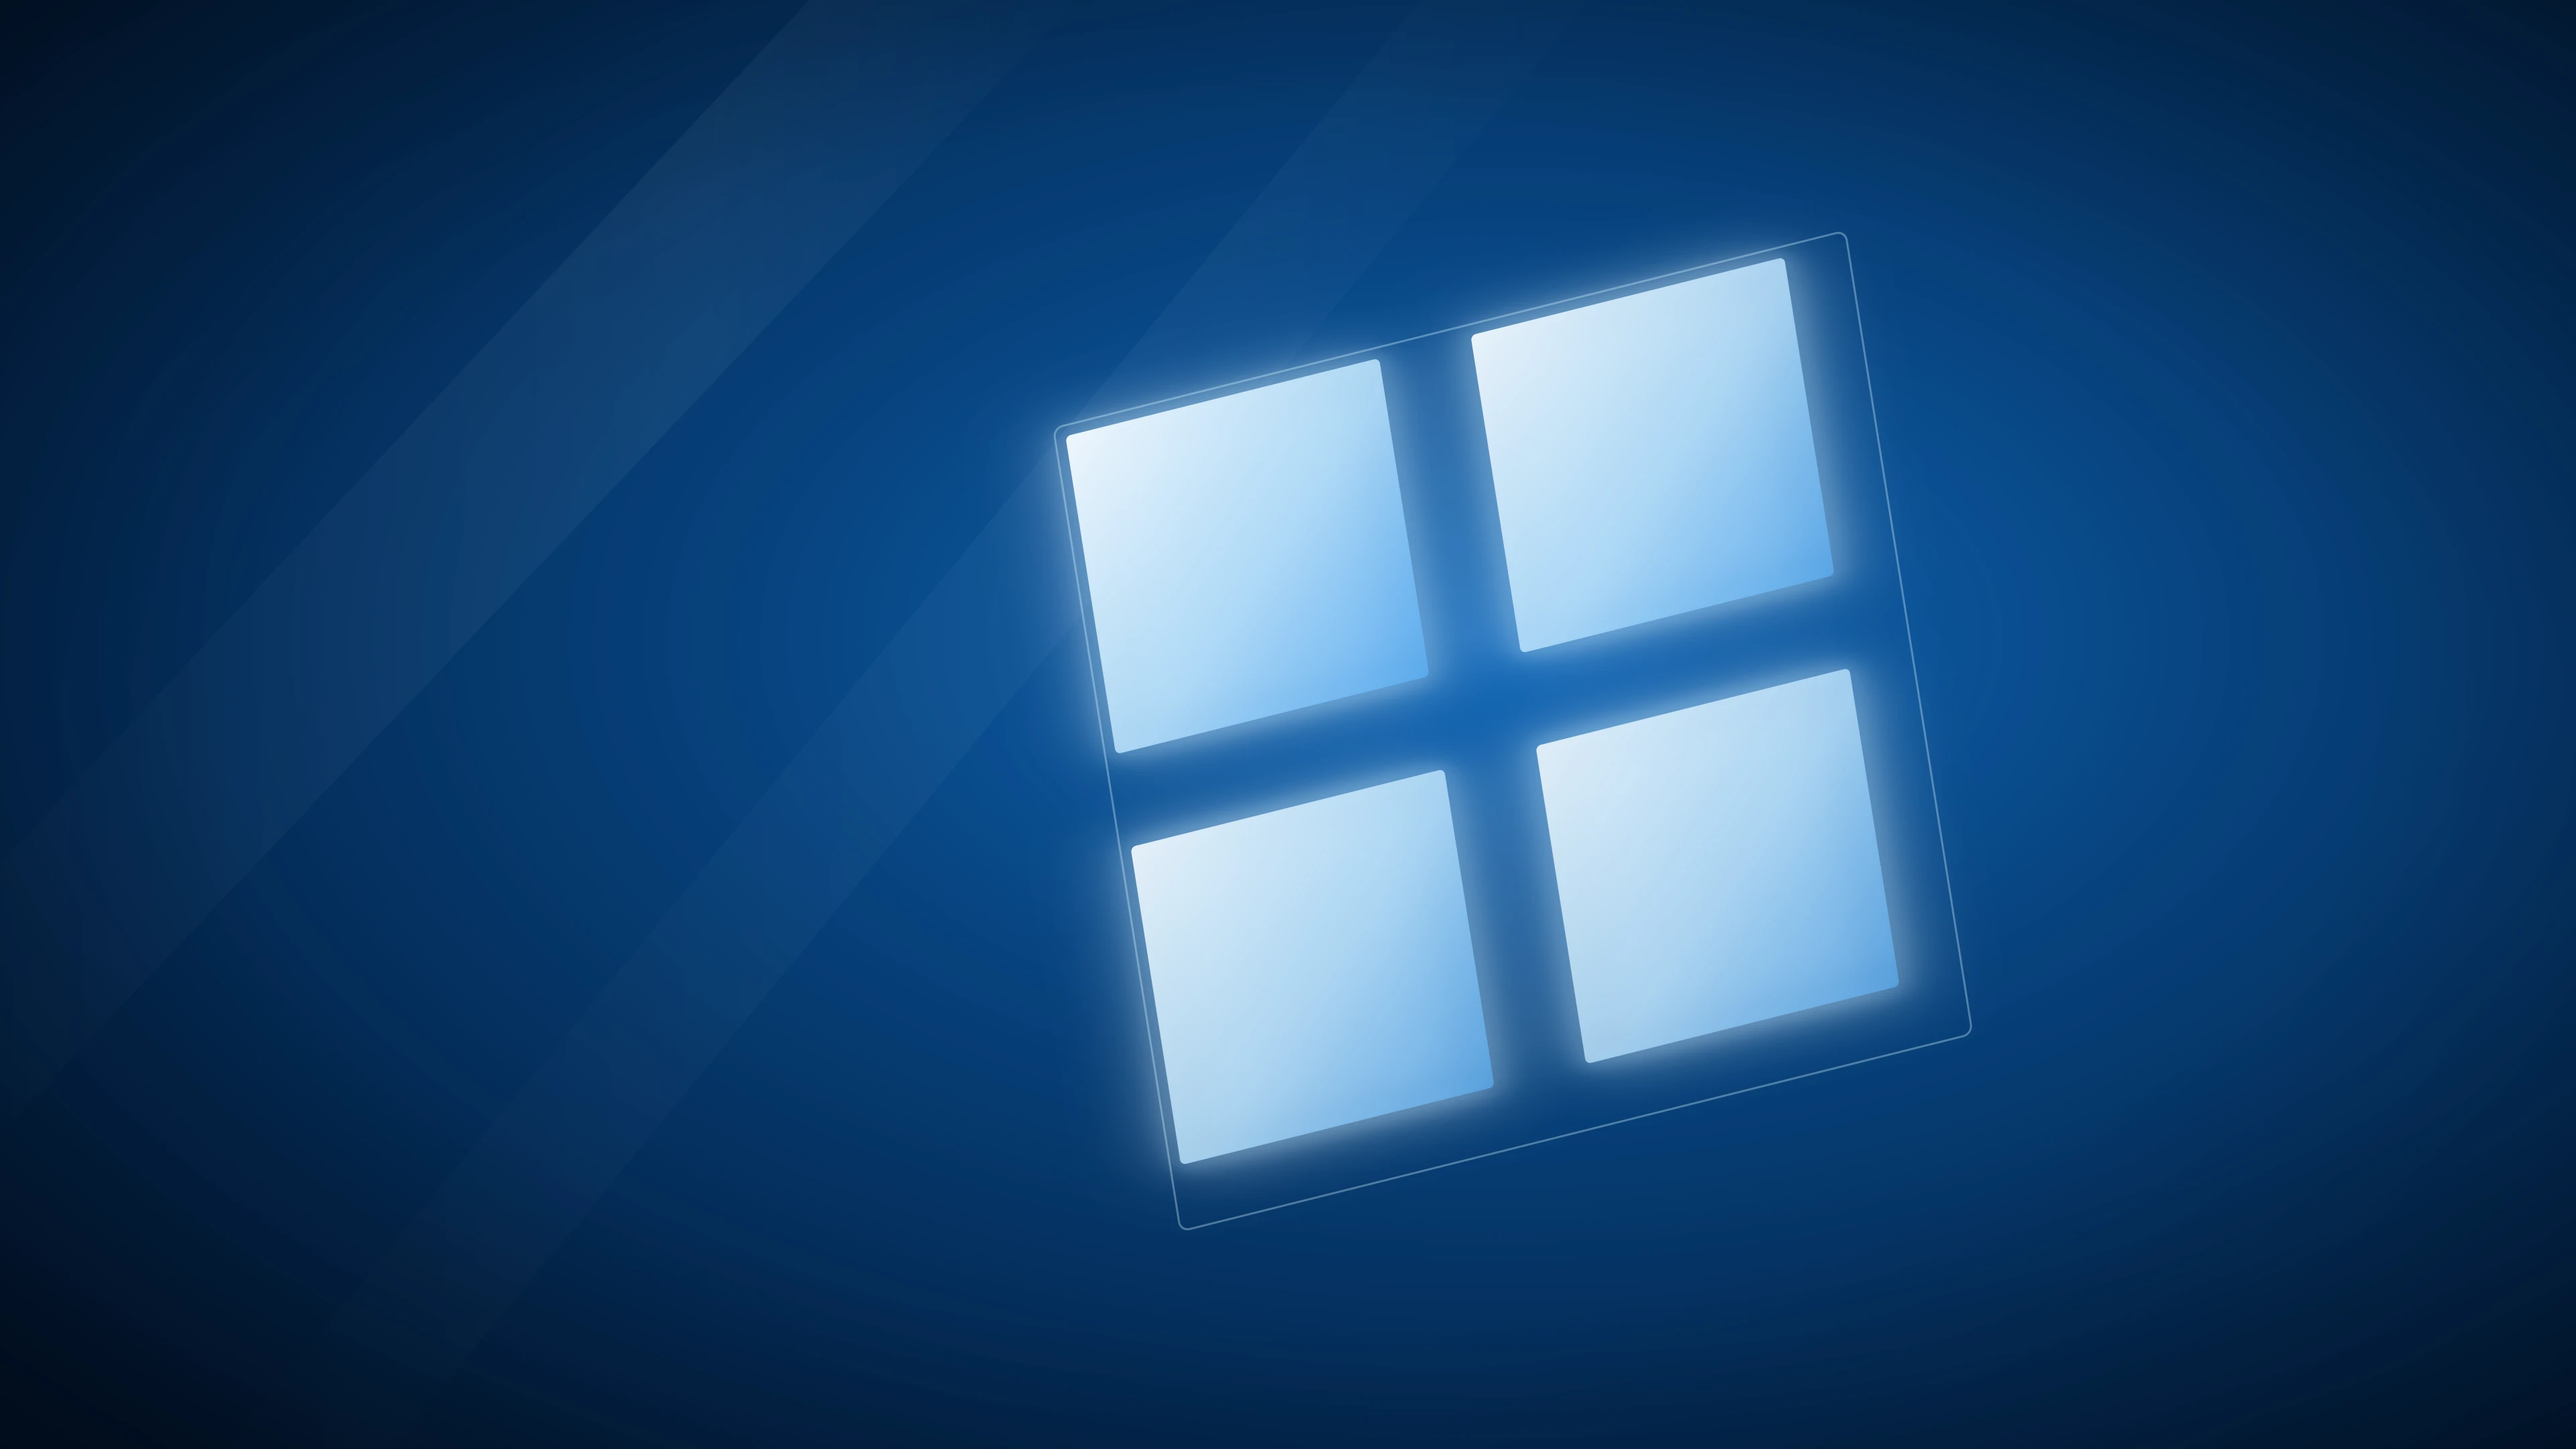
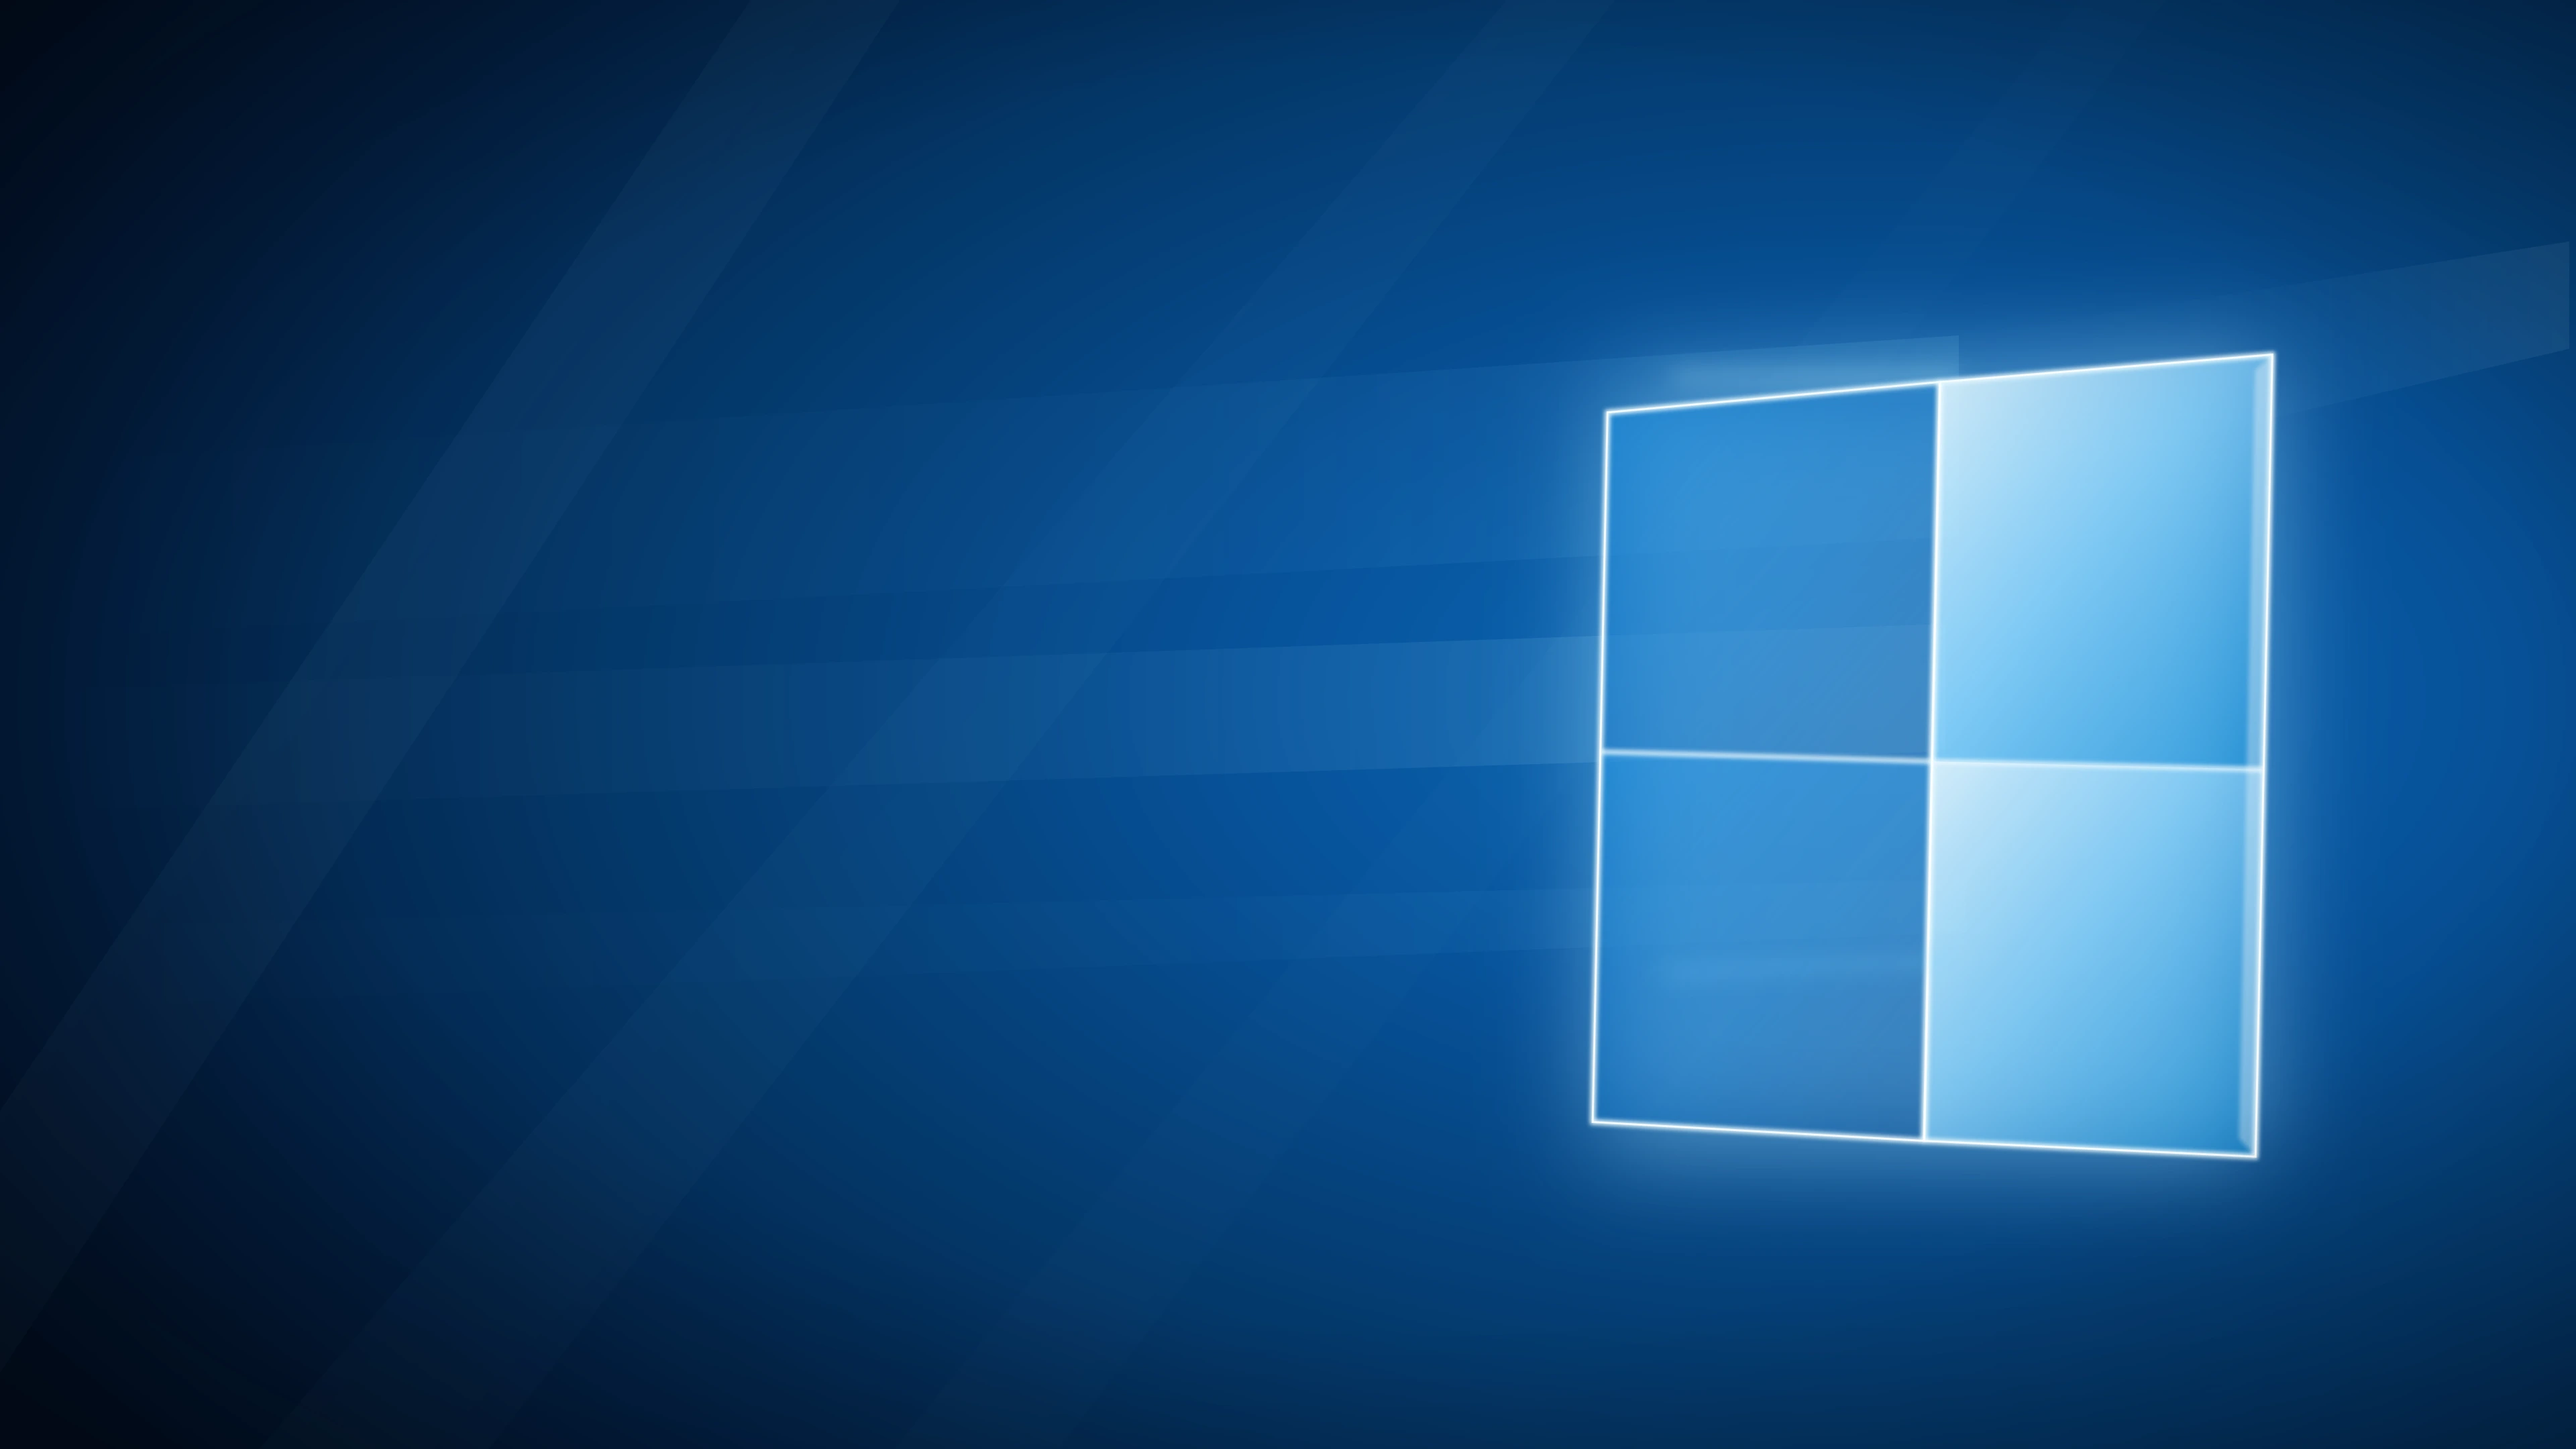
Recreate the Windows 10 Hero wallpaper and audit layout gaps
- Replace the simple centred-pane wallpaper with an original Hero-inspired
  drawing: dark navy field, perspective-tilted right-hand window, cyan pane
  glow and light beams. Source is backgrounds/windows-10-hero.svg, rendered to
  the 4K WebP used by the theme.
- Document the copyright constraint: Microsoft's Hero wallpaper is not bundled
  and may not be redistributed without a licence.
- Add a remaining-layout audit covering Start tiles, Settings size/advanced
  controls, action-center grouping, taskbar previews/overflow, lock screen and
  toast/OSD styling for the next pass.
- Add tests for the wallpaper source, asset and provenance note.

diff --git a/tests/test_theme_tools.py b/tests/test_theme_tools.py
@@ -464,6 +464,9 @@ class ThemeToolsTest(unittest.TestCase):
         self.assertIn("windowcontrols > button > image", css)
         self.assertIn("#e81123", css)
         self.assertIn("Selawik", css)
+        self.assertTrue((WINDOWS / "backgrounds/windows-10-hero.svg").is_file())
+        self.assertTrue((WINDOWS / "backgrounds/1-windows-10-blue.webp").is_file())
+        self.assertIn("Microsoft copyright", (WINDOWS / "backgrounds/README.md").read_text())
         shim = (WINDOWS / "gtk/title-left-shim.c").read_text()
         self.assertIn("hdy_header_bar_pack_start", shim)
         self.assertIn("adw_header_bar_pack_start", shim)

diff --git a/docs/windows-10.md b/docs/windows-10.md
@@ -78,6 +78,7 @@ Live checks: `plugin:winbars:enabled` → true, `bar_height` → 30,
 - Title alignment attempts: `/tmp/opencode/compare-title-alignment.png`
 - Titlebar on a GTK SSD app + close hover: `/tmp/opencode/compare-titlebar-gtk.png`
 - Titlebar default-white reference: `/tmp/opencode/compare-titlebar-default.png`
+- Desktop/Hero wallpaper: `/tmp/opencode/compare-desktop-hero.png`
 
 The taskbar, Start and action-center comparisons use dark Windows mode references with black surfaces, matching Big Nut's defaults. The wallpaper in the full desktop capture is an original drawing, so the taskbar strip comparison is the like-for-like surface comparison. The titlebar comparison uses a Windows 10 About dialog with a default white titlebar; it has one close button because dialogs do not show minimize/maximize. The accent-colored Settings capture documents the reference's custom accent, not Big Nut's palette.
 
@@ -107,6 +108,17 @@ Verified live:
 Evidence `/tmp/opencode/compare-title-left.png`. No `Adwaita-CRITICAL` or
 packing warnings appeared in the app logs. Apps that do not use these header
 bars are unaffected.
+
+## Remaining layout audit
+
+| Surface | Difference from Windows 10 | Next pass |
+| --- | --- | --- |
+| Start | No small tiles or true 2-row tile packing; Calendar/Files use wide/large approximations; no live Mail/People/Photos feeds, tile drag or Cortana suggestions | Add small tiles and a span-aware grid; map more live feeds where data exists |
+| Settings | Window is 900×660 versus Windows' roughly 1024×768; no acrylic; advanced display controls (HDR, colour profile, refresh rate) absent; Sound/Printers open Omarchy/CUPS instead of embedded pages | Add an embedded sound/device picker and advanced display rows that map to real commands |
+| Action center | Cards are a flat list with no app grouping, per-app notification settings, expand/collapse animation or quick-action edit mode | Group by app and add a notification-settings link |
+| Taskbar | No Cortana, thumbnail previews, taskbar overflow menu or per-app jump-list frequent list; search placeholder is the 1903 wording | Add hover thumbnails and a proper overflow menu |
+| Lock screen | Uses Omarchy's lock surface, not the Windows 10 lock screen with date/time and acrylic | Theme the lock surface as a separate pass |
+| Toasts/OSD | Notification toasts and OSD still use Omarchy styling; only the action center is Windows-shaped | Style toasts and OSD in the next pass |
 
 ## Intentional deviations
 
@@ -150,6 +162,8 @@ bars are unaffected.
 - Inactive caption buttons use `#d0d0d0` rather than Windows' exact
   `#cccccc`; the difference is a few RGB points and only shows on unfocused
   server-decorated windows.
-- The wallpaper and four-pane artwork are original drawings, not Microsoft
-  assets. No Microsoft font, icon, logo or wallpaper file is included;
-  Selawik is Microsoft's SIL OFL Segoe UI substitute.
+- The wallpaper is an original Hero-inspired drawing, not Microsoft's Hero
+  file. Microsoft's wallpaper is copyright and cannot be bundled without a
+  redistribution licence; see `themes/windows-10/backgrounds/README.md`.
+  Selawik is Microsoft's SIL OFL Segoe UI substitute; no Microsoft font, icon
+  or logo file is included.

diff --git a/themes/windows-10/backgrounds/README.md b/themes/windows-10/backgrounds/README.md
@@ -1,0 +1,19 @@
+# Wallpaper provenance
+
+`windows-10-hero.svg` is an original drawing made for this Linux theme. It is
+inspired by the composition of the Windows 10 "Hero" wallpaper — a dark blue
+field, a glowing four-pane window and light beams — but it is not a copy of
+Microsoft's artwork and contains no Microsoft asset.
+
+The real Windows 10 Hero wallpaper is Microsoft copyright and is not bundled
+here. Do not replace `1-windows-10-blue.webp` with Microsoft's file unless you
+have a licence that permits redistribution.
+
+Rendered asset: `1-windows-10-blue.webp` (3840×2160, WebP).
+
+Rebuild:
+
+```bash
+rsvg-convert -w 3840 -h 2160 windows-10-hero.svg -o /tmp/windows-10-hero.png
+magick /tmp/windows-10-hero.png -quality 92 1-windows-10-blue.webp
+```

diff --git a/themes/windows-10/README.md b/themes/windows-10/README.md
@@ -21,8 +21,10 @@ metric-compatible Segoe UI substitute.
   tiles, power menu.
 - Colors: white app surfaces, black window text, `#0078d7` accent, square
   corners, opaque windows and a 1px accent border.
-- Wallpaper: `backgrounds/1-windows-10-blue.webp`, an original blue pane
-  illustration.
+- Wallpaper: `backgrounds/1-windows-10-blue.webp`, an original render of
+  `backgrounds/windows-10-hero.svg`, a Hero-inspired blue pane and light-beam
+  drawing. Microsoft's Hero file is copyright and is not bundled; see
+  `backgrounds/README.md`.
 - Font: `fonts/` contains Selawik Regular, Semilight, Light, Semibold and Bold
   (SIL Open Font License 1.1, see `fonts/LICENSE.txt`). The theme hook installs
   them for the current user and refreshes fontconfig.
